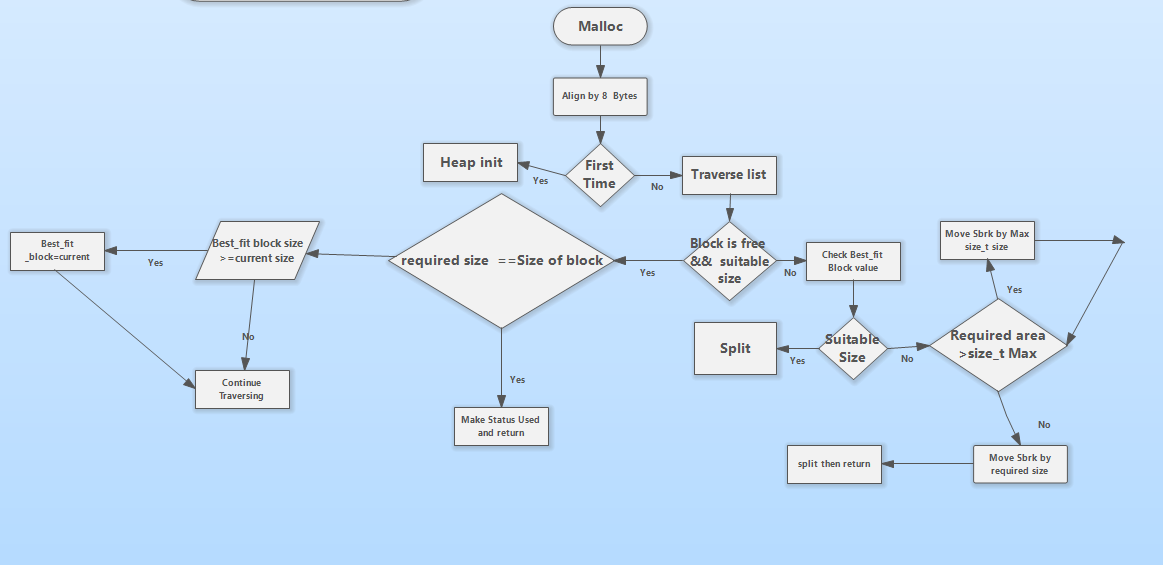
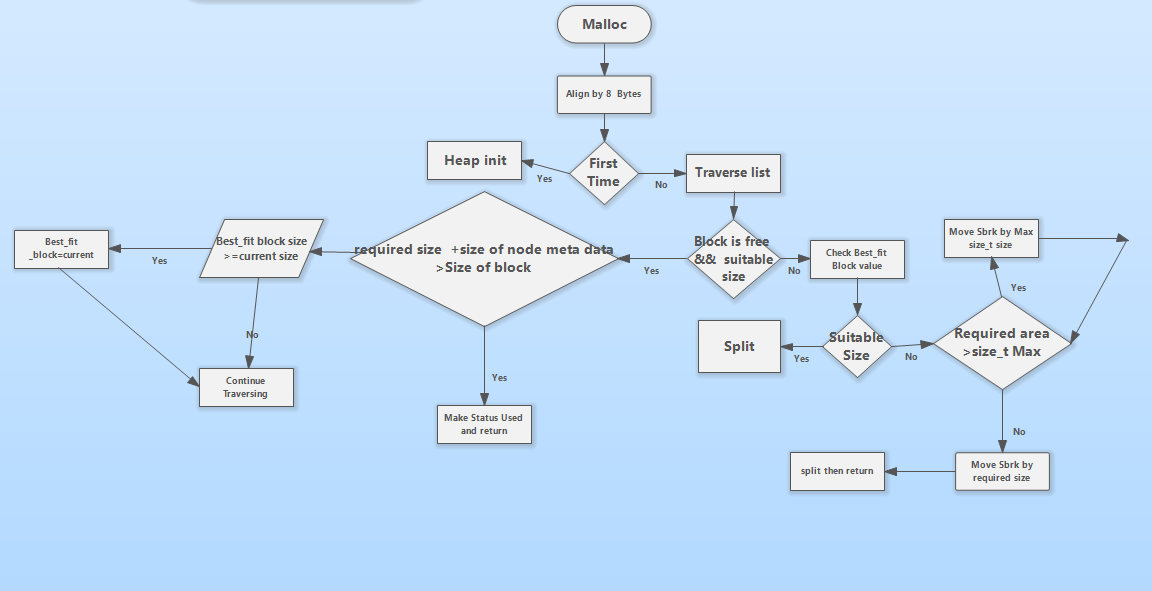
editing flowchart

diff --git a/Advanced_Training/My_Heap_Memory_Manager/hmm.c b/Advanced_Training/My_Heap_Memory_Manager/hmm.c
@@ -1,5 +1,5 @@
 /*******************************Author:Moaz Ragab ***********************************************/
-/*******************************Date:13 April 2024 *********************************************/
+/*******************************Date:15 April 2024 *********************************************/
 /*******************************V:02 **********************************************************/
 
 #include <stdio.h>
@@ -102,7 +102,7 @@ void *heap_allocator(size_t size)
       if (current->free == yes && current->size >= size)
       {
 
-        if (current->size == size)
+        if (current->size < size + node_size)
         {
           // if we find exactly the same size, we don't need to  complete the list to save time
           current->free = no;
@@ -120,18 +120,11 @@ void *heap_allocator(size_t size)
       current = (node *)current->next;
     }
 
-    if (NULL != best_fit && NULL != best_fit->next)
+    if (NULL != best_fit)
     {
       if (best_fit->size >= size + node_size)
         split(best_fit, size);
-      else
-        best_fit->free = no;
-
       return (void *)(best_fit + 1);
-    }
-    else if (NULL != best_fit && ((size + node_size) <= best_fit->size) && best_fit->free == yes)
-    {
-      split(best_fit, size);
     }
     else
     {
@@ -213,7 +206,8 @@ void merge(node *nodes)
   // Boundry_free_Size
   if (nodes->next == NULL && nodes->free == yes && nodes->size >= Boundry_free_Size)
   {
-    long long temp = (nodes->size / Boundry_free_Size) * Boundry_free_Size;
+    long long temp =
+        (nodes->size / Boundry_free_Size) * Boundry_free_Size;
 
     // release the memory to the kernel
     if (temp == nodes->size)
